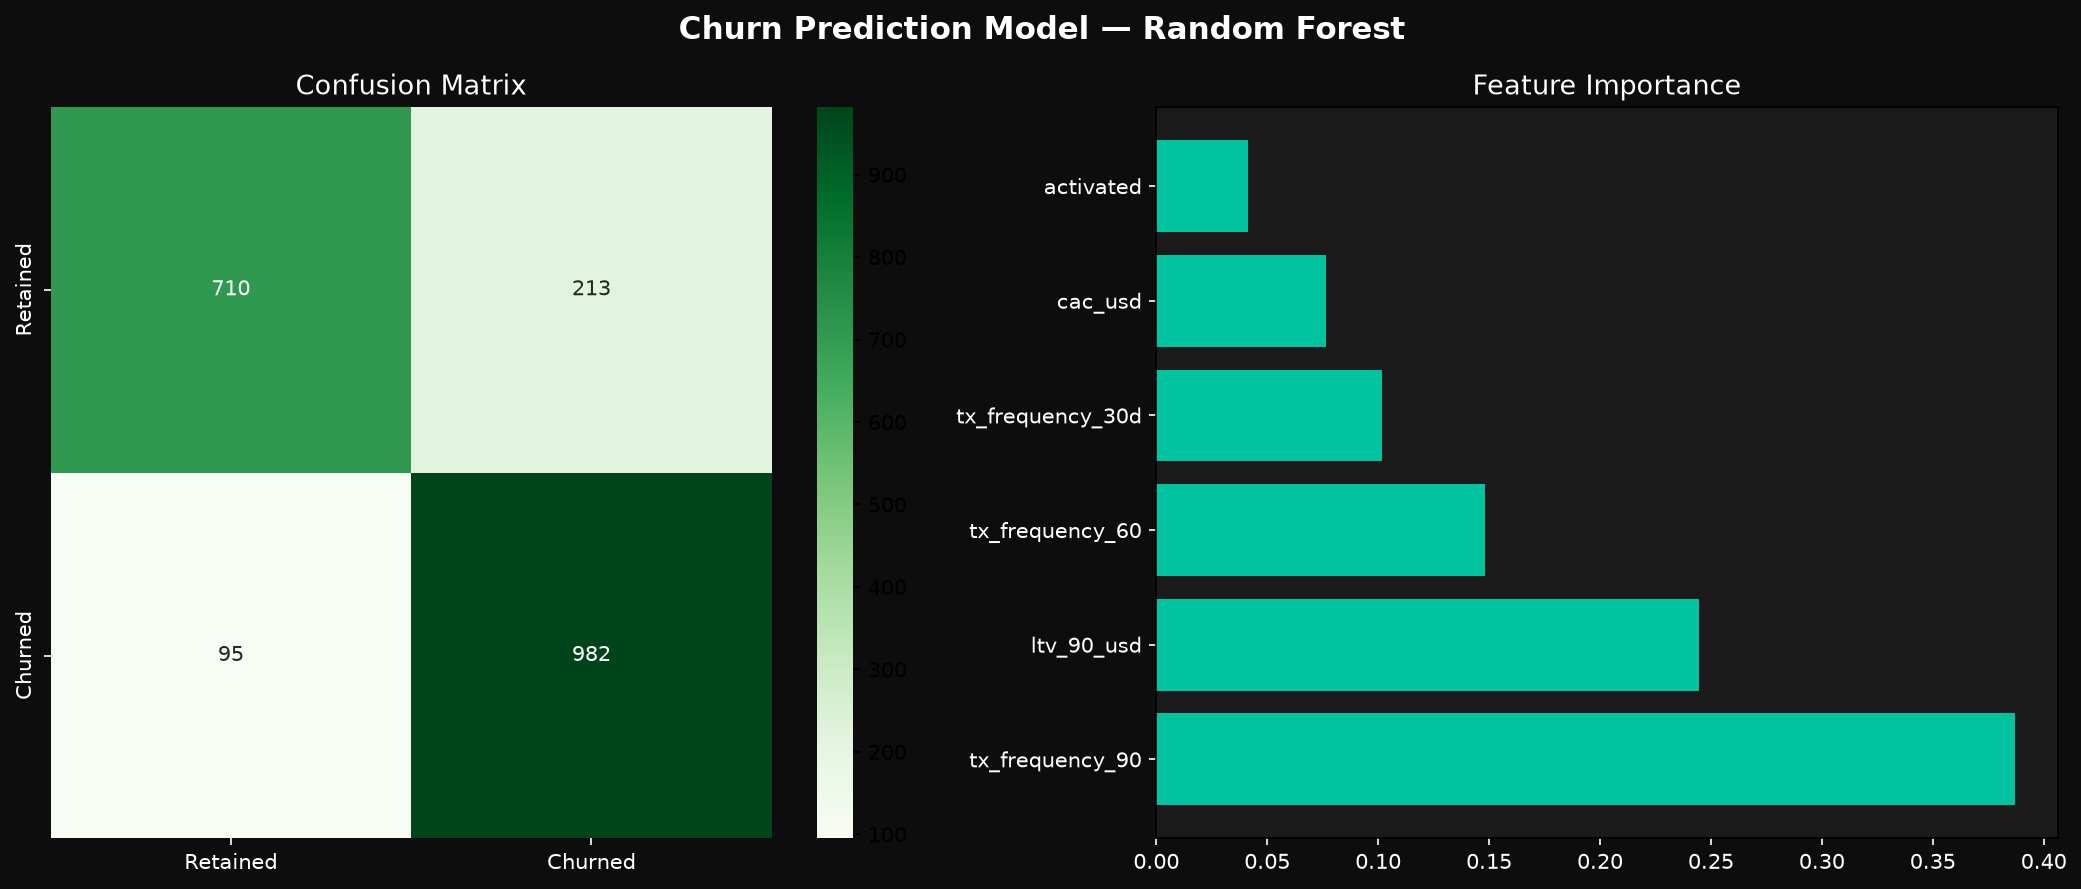
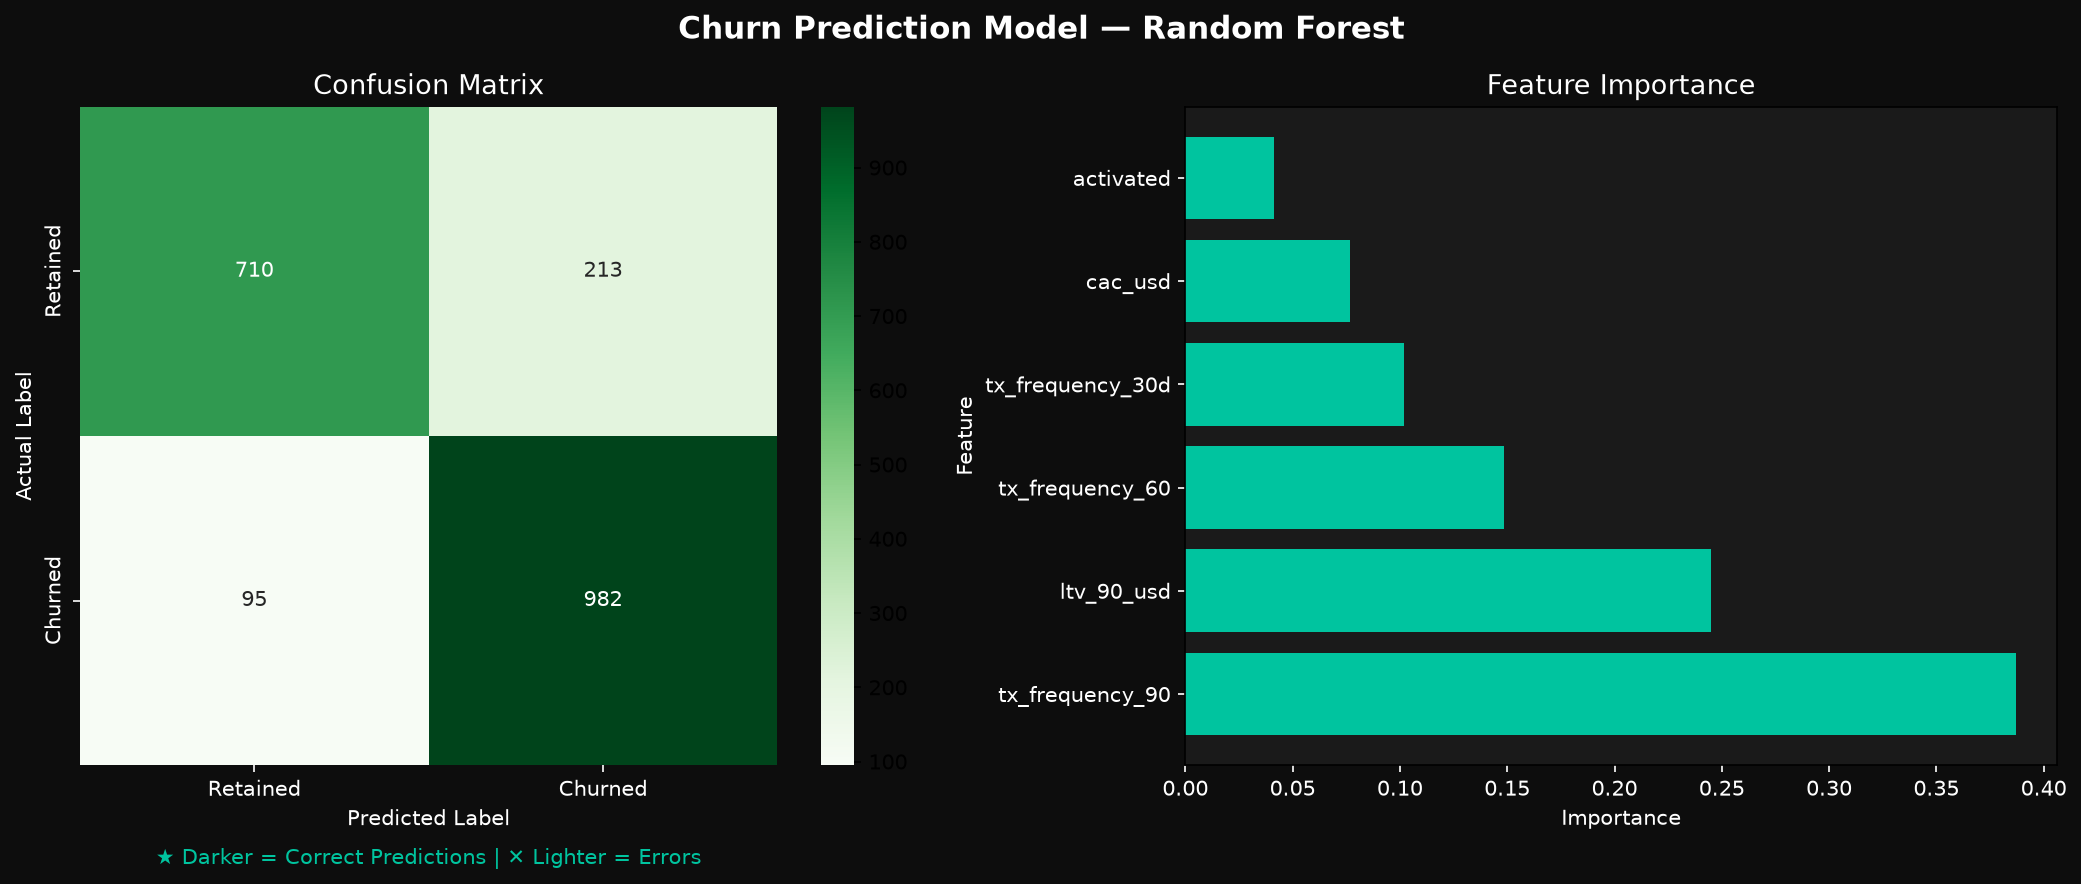
Enhanced the Churn_model image and churn_model.py

diff --git a/churn_model.py b/churn_model.py
@@ -67,12 +67,22 @@ axes[0].set_title('Confusion Matrix', color='white', fontsize=13)
 axes[0].tick_params(colors='white')
 axes[0].yaxis.label.set_color('white')
 axes[0].xaxis.label.set_color('white')
+axes[0].set_xlabel('Predicted Label', color='white')
+axes[0].set_ylabel('Actual Label', color='white')
+
+# Add caption below the confusion matrix
+axes[0].text(0.5, -0.15,
+             '★ Darker = Correct Predictions | ✕ Lighter = Errors',
+             transform=axes[0].transAxes,
+             ha='center', color='#00C49F', fontsize=10)
 
 # Feature Importance
 axes[1].barh(importance['feature'], importance['importance'], color='#00C49F')
 axes[1].set_facecolor('#1a1a1a')
 axes[1].set_title('Feature Importance', color='white', fontsize=13)
 axes[1].tick_params(colors='white')
+axes[1].set_xlabel('Importance', color='white')
+axes[1].set_ylabel('Feature', color='white')
 
 plt.suptitle('Churn Prediction Model — Random Forest', color='white', 
              fontsize=15, fontweight='bold')
